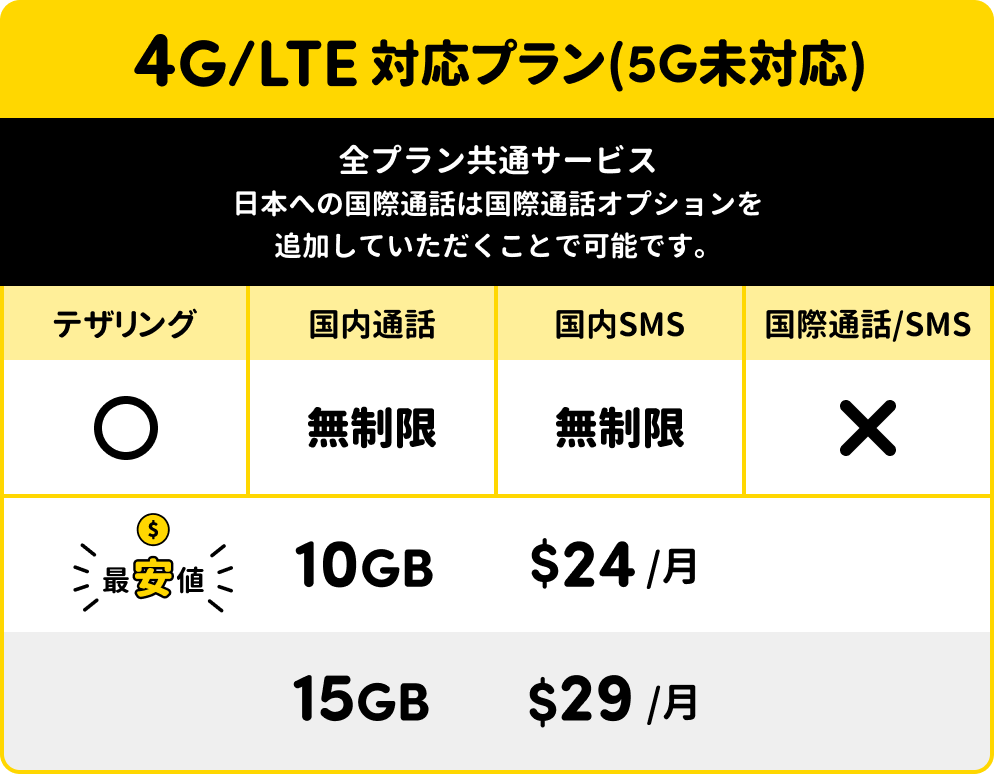
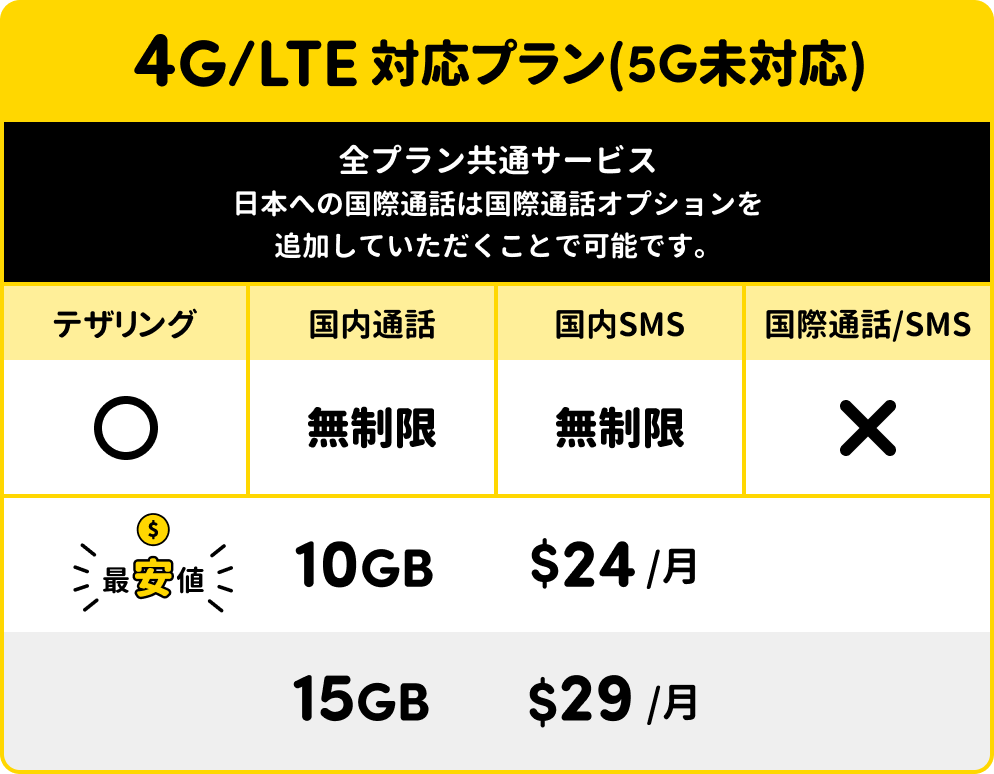
確認

Changed region(s): [[0.0, 0.155, 1.0, 0.3721]]

diff --git a/index.html b/index.html
@@ -403,7 +403,7 @@
       <a href="https://insurance.yellowmobile.jp/" class="slide" target="_blank"><img src="img/sec-top-b/1.png" alt="" width="310" height="145"></a>
       <a href="delivery.html#esim" class="slide"><img src="img/sec-top-b/2.png" alt="" width="310" height="145"></a>
       <a href="plan.html#option" class="slide"><img src="img/sec-top-b/3.png" alt="" width="310" height="145"></a>
-      <a href="https://ref.yellowmobile.jp/" class="slide" target="_blank"><img src="img/sec-top-b/4.png" alt="" width="310" height="145"></a>
+      <a href="https://ref.yellowmobile.jp/" class="slide" target="_blank"><img src="img/campaign/slidebanner_friend.png" alt="" width="310" height="145"></a>
       <a href="https://www.yellowmobile.jp/view/page/product#p02" class="slide" target="_blank"><img src="img/sec-top-b/5.png" alt="" width="310" height="145"></a>
       <a href="https://wise.com/?clickref=1100lCaxXvcD&partnerID=1100l326586&utm_medium=affiliate&utm_campaign=0&adref=&utm_source=tanabe036544&partnerizecampaignID=1011l725" class="slide" target="_blank"><img src="img/sec-top-b/6.png" alt="" width="310" height="145"></a>
     </div>